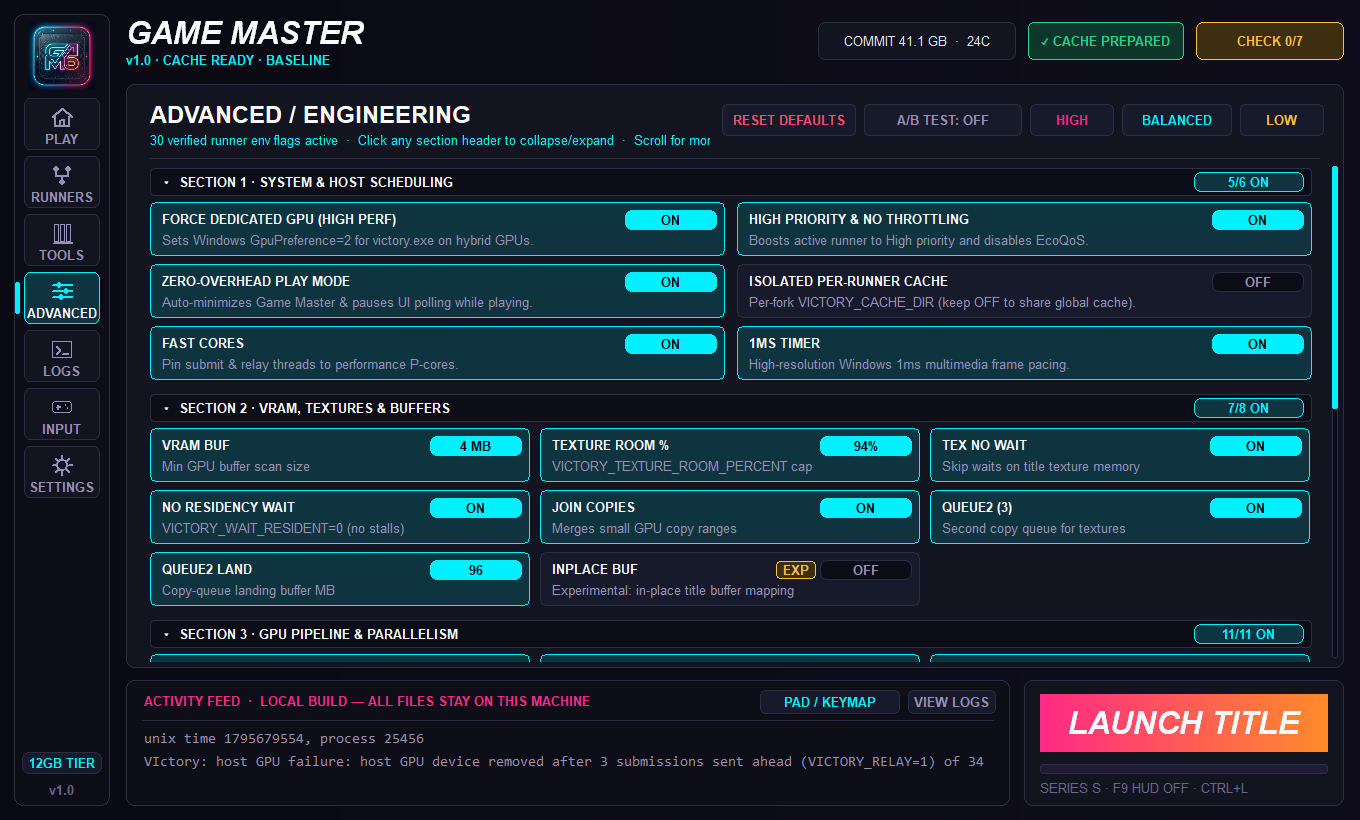
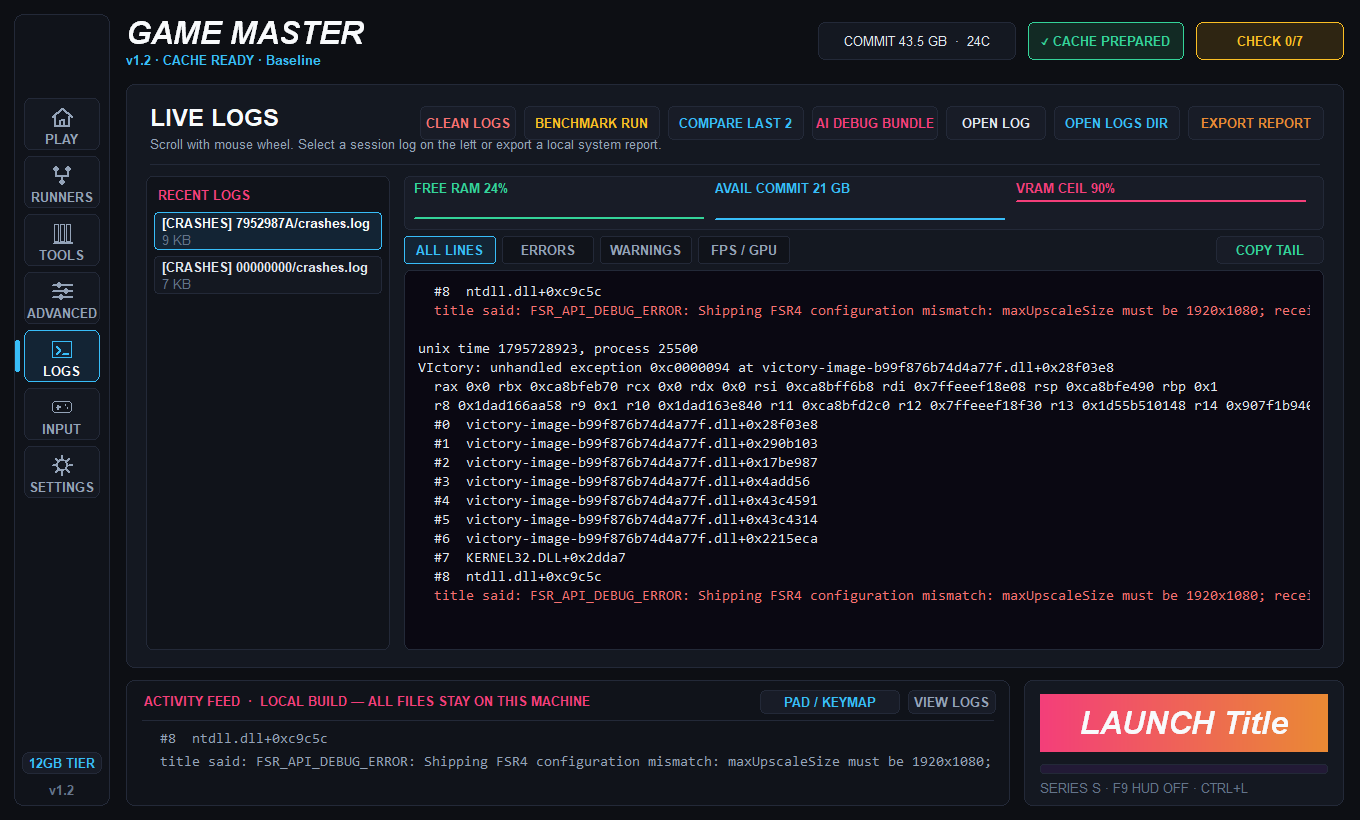
v1.2: fix Prepare Cache to use shaders --jobs with live progress & polish README

diff --git a/src/launcher.rs b/src/launcher.rs
@@ -214,6 +214,8 @@ pub struct ActiveSession {
     pub live_telemetry: Option<LiveFrameTelemetry>,
     pub window_branded: bool,
     pub window_maximized: bool,
+    pub cache_dir: PathBuf,
+    pub initial_cache_files: usize,
 }
 
 pub struct PollUpdate {
@@ -456,7 +458,41 @@ pub fn start(s: &Settings, sys: &SystemInfo) -> Result<ActiveSession, String> {
         live_telemetry: None,
         window_branded: false,
         window_maximized: false,
+        cache_dir: cache_dir_for(&runner_path, kind, s.isolated_cache),
+        initial_cache_files: 0,
     })
+}
+
+/// Checks `<runner> --help` text for the `shaders` subcommand (used by `cool_fox` / newer VIctory builds).
+pub fn help_supports_shaders(help_text: &str) -> bool {
+    help_text.lines().any(|line| {
+        let t = line.trim_start();
+        t == "shaders" || t.starts_with("shaders ") || t.starts_with("shaders\t")
+    })
+}
+
+/// Probes `<runner> --help` (hidden console) to detect whether the `shaders` subcommand is supported.
+pub fn supports_shaders_subcommand(runner_path: &Path) -> bool {
+    let mut cmd = Command::new(runner_path);
+    cmd.arg("--help");
+    #[cfg(windows)]
+    {
+        use std::os::windows::process::CommandExt;
+        cmd.creation_flags(0x08000000);
+    }
+    let Ok(out) = cmd.output() else {
+        return false;
+    };
+    let text = format!(
+        "{}\n{}",
+        String::from_utf8_lossy(&out.stdout),
+        String::from_utf8_lossy(&out.stderr)
+    );
+    help_supports_shaders(&text)
+}
+
+fn count_dir_files(dir: &Path) -> usize {
+    std::fs::read_dir(dir).map(|rd| rd.count()).unwrap_or(0)
 }
 
 pub fn prepare(s: &Settings, jobs: u32) -> Result<ActiveSession, String> {
@@ -493,11 +529,14 @@ pub fn prepare(s: &Settings, jobs: u32) -> Result<ActiveSession, String> {
         .map_err(|e| format!("Cannot create prepare log: {e}"))?;
 
     let runner_path = s.resolved_runner();
+    let use_shaders_cmd = supports_shaders_subcommand(&runner_path);
     let ztrx = is_ztrx_runner(&runner_path);
     let lower_runner = runner_path.to_string_lossy().to_ascii_lowercase();
     let baseline = lower_runner.contains("baseline") || lower_runner.contains("overnight-tuned");
     let use_cache_flag = !ztrx && !baseline;
-    let flags_desc = if !use_cache_flag {
+    let flags_desc = if use_shaders_cmd {
+        format!("shaders --jobs {jobs}")
+    } else if !use_cache_flag {
         format!("translate --pipelines --jobs {jobs}")
     } else {
         format!("translate --cache --pipelines --jobs {jobs}")
@@ -525,19 +564,30 @@ pub fn prepare(s: &Settings, jobs: u32) -> Result<ActiveSession, String> {
     let err = file.try_clone().map_err(|e| e.to_string())?;
 
     let cache_dir = cache_dir_for(&runner_path, kind, s.isolated_cache);
+    let initial_cache_files = count_dir_files(&cache_dir.join("shaders"));
     let mut pcmd = Command::new(&runner_path);
-    pcmd.arg("translate");
-    if use_cache_flag {
-        pcmd.arg("--cache");
+    if use_shaders_cmd {
+        pcmd.arg("shaders")
+            .arg("--jobs")
+            .arg(jobs.to_string())
+            .arg(&shaders)
+            .arg(exe)
+            .arg(&bvh)
+            .arg(&upscaler);
+    } else {
+        pcmd.arg("translate");
+        if use_cache_flag {
+            pcmd.arg("--cache");
+        }
+        pcmd.arg("--pipelines")
+            .arg("--jobs")
+            .arg(jobs.to_string())
+            .arg(&shaders)
+            .arg(exe)
+            .arg(&bvh)
+            .arg(&upscaler);
     }
-    pcmd.arg("--pipelines")
-        .arg("--jobs")
-        .arg(jobs.to_string())
-        .arg(&shaders)
-        .arg(exe)
-        .arg(&bvh)
-        .arg(&upscaler)
-        .env("VICTORY_LOG", s.effective_victory_log())
+    pcmd.env("VICTORY_LOG", s.effective_victory_log())
         .stdout(Stdio::from(out))
         .stderr(Stdio::from(err));
     if s.isolated_cache {
@@ -559,12 +609,18 @@ pub fn prepare(s: &Settings, jobs: u32) -> Result<ActiveSession, String> {
         log_path,
         started_at: Instant::now(),
         log_offset: initial_offset,
-        parsed_progress: None,
-        phase: "Translating shaders & building pipeline cache...".into(),
+        parsed_progress: Some(2),
+        phase: if use_shaders_cmd {
+            "Precompiling shaders into cache (shaders --jobs)...".into()
+        } else {
+            "Translating shaders & building pipeline cache...".into()
+        },
         timer_active: false,
         live_telemetry: None,
         window_branded: false,
         window_maximized: false,
+        cache_dir,
+        initial_cache_files,
     })
 }
 
@@ -597,6 +653,19 @@ pub fn poll(session: &mut ActiveSession) -> PollUpdate {
                 }
             }
         }
+    }
+
+    if session.kind == ProcessKind::Prepare {
+        let cur_files = count_dir_files(&session.cache_dir.join("shaders"));
+        let added = cur_files.saturating_sub(session.initial_cache_files) as u64;
+        let cache_pct = if added > 0 {
+            ((added * 100) / 26_000).clamp(2, 99) as u32
+        } else {
+            0
+        };
+        let time_pct = ((session.started_at.elapsed().as_secs() * 100) / 210).clamp(2, 95) as u32;
+        let best = session.parsed_progress.unwrap_or(2).max(cache_pct).max(time_pct);
+        session.parsed_progress = Some(best.min(99));
     }
 
     let mut finished = None;
@@ -693,6 +762,20 @@ fn extract_progress(line: &str) -> Option<u32> {
                     }
                 }
             }
+        }
+    }
+    let lower = line.to_ascii_lowercase();
+    if let Some(idx) = lower.find("shaders in the cache") {
+        if let Some(n) = lower[..idx].split_whitespace().last().and_then(|s| s.parse::<u64>().ok()) {
+            if lower.contains("do not translate") {
+                return Some(100);
+            }
+            return Some(((n * 100) / 26_200).clamp(1, 99) as u32);
+        }
+    }
+    if let Some(idx) = lower.find("shaders so far") {
+        if let Some(n) = lower[..idx].split_whitespace().last().and_then(|s| s.parse::<u64>().ok()) {
+            return Some(((n * 100) / 26_200).clamp(1, 99) as u32);
         }
     }
     for token in line.split_whitespace() {
@@ -828,4 +911,21 @@ pub fn run_shader_census(s: &Settings) -> Result<crate::diagnostics::ShaderCensu
     );
     let lines: Vec<String> = combined.lines().map(|l| strip_ansi(l)).collect();
     Ok(crate::diagnostics::parse_shader_census(&lines))
+}
+
+#[cfg(test)]
+mod tests {
+    use super::*;
+
+    #[test]
+    fn shaders_subcommand_detection_and_progress_parsing() {
+        let help = "Commands:\n  translate    Run every shader\n  shaders      Translate every shader found into the shader cache\n  run          Prepare, map and bind\n";
+        assert!(help_supports_shaders(help));
+        assert!(!help_supports_shaders("Commands:\n  translate    Run every shader\n  run          Run title\n"));
+
+        assert_eq!(extract_progress("1000 shaders in the cache, 12 s"), Some(3));
+        assert_eq!(extract_progress("13100 shaders in the cache, 105 s"), Some(50));
+        assert_eq!(extract_progress("26177 shaders in the cache, 5 do not translate, 210 s"), Some(100));
+        assert_eq!(extract_progress("warm-up 5240 shaders so far, 40 s"), Some(20));
+    }
 }

diff --git a/src/render.rs b/src/render.rs
@@ -1128,7 +1128,7 @@ unsafe fn draw_home(hdc: HDC, r: RECT, ctx: &RenderContext, hits: &mut Vec<(RECT
         .session
         .as_ref()
         .filter(|s| s.kind == crate::launcher::ProcessKind::Prepare)
-        .map(|s| s.parsed_progress.unwrap_or(15));
+        .map(|s| s.parsed_progress.unwrap_or(2));
     let preparing = prep_prog.is_some();
     let cache_ready = ctx.audit.shader_cache_ready && !needs_refresh;
     let prep_bg = if cache_ready && !preparing {

diff --git a/README.md b/README.md
@@ -49,14 +49,14 @@ Game Master 6 probes your GPU's dedicated VRAM on first launch and applies a saf
 | VRAM Tier | Console Default | `BALANCED` Resolution | `TEXTURE_ROOM_PERCENT` | `CARD_ROOM_FOR_TARGETS_MB` | `CARD_BUFFERS_MB` / `MIN_MB` |
 |---|---|---|---|---|---|
 | **8 GB** | `series-s` | `1280x720` | `85%` | `1536` | `512` / `4` |
-| **12 GB** | `series-s` (toggleable) | `1600x900` (`LOW`: `1280x720` @ `90%`) | `94%` | `2560` | `1024` / `4` |
+| **12 GB** | `series-s` (toggleable) | `1920x1080` (`LOW`: scaled `1280x720` @ `90%`, `HIGH`: `1664x936`) | `94%` | `2560` | `1024` / `4` |
 | **16 GB+** | `series-x` | `1920x1080` | `94%` | `2560` | `1024` / `4` |
 
 ---
 
 ## Quick Start (Release ZIP)
 
-1. Download **`GameMaster6-v1.0-Release.zip`** from the GitHub **Releases** tab and extract it to a clean folder (e.g., `C:\Tools\GameMaster6\`).
+1. Download **`GameMaster6-v1.2-Release.zip`** from the GitHub **Releases** tab and extract it to a clean folder (e.g., `C:\Tools\GameMaster6\`).
 2. Run **`GameMaster6.exe`**.
 3. On the **PLAY** tab, click **BROWSE GAME FOLDER...** to select your title directory and executable.
 4. Open **RUNNERS** to select or import your `victory.exe` runner.
